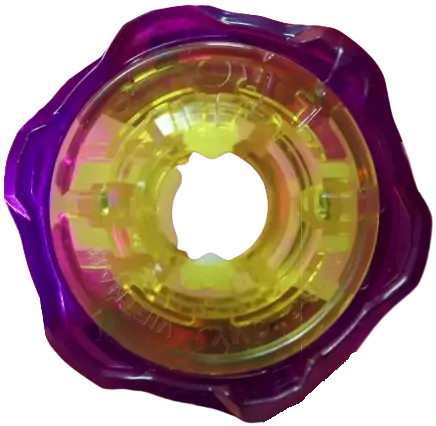
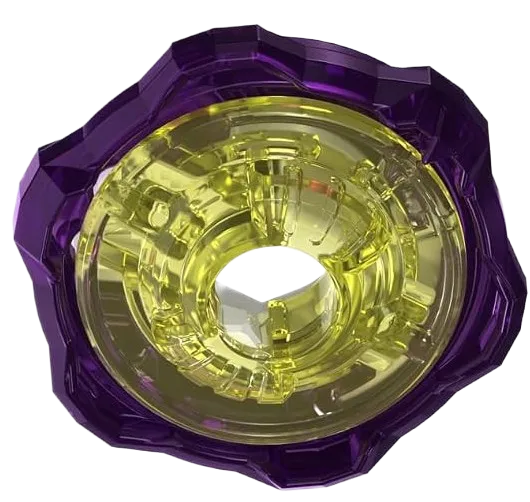
Added dual pack images for hasbro october releases, updated orochi parts, added missing product images for hasbro october releases

diff --git a/beyblade-data.ts b/beyblade-data.ts
@@ -11631,8 +11631,7 @@ export const allParts: Part[] = [
     "series": ["BX"],
     "company": "Hasbro",
     "comingSoon": true,
-    "inProgress": true,
-    "image": getPartImage("CobaltDrake_Clear-Booster_Image", "products/hasbro/cobalt_drake4-60f_clear_booster/product.webp", "product box", false), //NEED IMAGE
+    "image": getPartImage("CobaltDrake_Clear-Booster_Image", "products/hasbro/cobalt_drake4-60f_clear_booster/product.webp", "product box"),
     "contents": [
       { "partId": "Beyblade_CobaltDrake_Clear-Booster", "variantName": "Cobalt Drake 4-60F" }
     ]
@@ -11660,8 +11659,7 @@ export const allParts: Part[] = [
     "series": ["UX"],
     "company": "Hasbro",
     "comingSoon": true,
-    "inProgress": true,
-    "image": getPartImage("Mirage-Clock-Booster-Pack_Image", "products/hasbro/mirage_clock9-65b_booster/product.webp", "product box", false), //NEED IMAGE
+    "image": getPartImage("Mirage-Clock-Booster-Pack_Image", "products/hasbro/mirage_clock9-65b_booster/product.webp", "product box"),
     "contents": [
       { "partId": "Beyblade_Mirage-Clock-Booster-Pack", "variantName": "Mirage Clock 9-65B" }
     ]
@@ -11849,8 +11847,7 @@ export const allParts: Part[] = [
     "series": ["UX"],
     "company": "Hasbro",
     "comingSoon": true,
-    "inProgress": true,
-    "image": getPartImage("Product__Pearl-Tiger-Coil-Orochi-Dual-Pack_Image", "products/hasbro/pearltigercoilorochi/product.webp", "product box", false), //NEED IMAGE
+    "image": getPartImage("Product__Pearl-Tiger-Coil-Orochi-Dual-Pack_Image", "products/hasbro/pearltigercoilorochi/product.webp", "product box"),
     "contents": [
       { "partId": "Beyblade_Pearl-Tiger-3-85WB", "variantName": "Pearl Tiger 3-85WB" },
       { "partId": "Beyblade_Coil-Orochi-6-60LF", "variantName": "Coil Orochi 6-60LF" }
@@ -11879,7 +11876,6 @@ export const allParts: Part[] = [
     "series": ["BX"],
     "company": "Hasbro",
     "comingSoon": true,
-    "inProgress": true,
     "image": getPartImage("Beyblade_Pearl-Tiger-3-85WB_Image", "products/hasbro/pearltigercoilorochi/beyblade_pearltiger.webp", "beyblade"),
     "contents": [
       { "partId": "PearlTiger", "variantName": "Pearl Tiger 3-85WB (Dual Pack) (HB)" },
@@ -11895,8 +11891,7 @@ export const allParts: Part[] = [
     "series": ["BX"],
     "company": "Hasbro",
     "comingSoon": true,
-    "inProgress": true,
-    "image": getPartImage("Product__Brace-Triceratops-Dagger-Dran-Dual-Pack_Image", "products/hasbro/bracetriceratopsdaggerdran/product.webp", "product box", false), //NEED IMAGE
+    "image": getPartImage("Product__Brace-Triceratops-Dagger-Dran-Dual-Pack_Image", "products/hasbro/bracetriceratopsdaggerdran/product.webp", "product box"),
     "contents": [
       { "partId": "Beyblade_Brace-Triceratops-M-85BS", "variantName": "Brace Triceratops M-85BS" },
       { "partId": "Beyblade_Dagger-Dran-7-55K", "variantName": "Dagger Dran 7-55K" }
@@ -11925,7 +11920,6 @@ export const allParts: Part[] = [
     "series": ["BX"],
     "company": "Hasbro",
     "comingSoon": true,
-    "inProgress": true,
     "image": getPartImage("Beyblade_Dagger-Dran-7-55K_Image", "products/hasbro/bracetriceratopsdaggerdran/beyblade_daggerdran.webp", "beyblade"),
     "contents": [
       { "partId": "DaggerDran", "variantName": "Dagger Dran 7-55K (Dual Pack) (HB)" },
@@ -17512,7 +17506,7 @@ export const allParts: Part[] = [
         { "name": "Reaper Incendio T 4-70K (Starter) (HB)", "image": getPartImage("K-CX-05-1", "bits/k/reaperincendio.webp", "bit"), "identicalVariants": ["CX-05-1 (TT)"] },
         { "name": "Corocoro (DranArc) (TT)", "image": getPartImage("K-DranArc", "bits/k/dranarc.webp", "bit"), "displayedName": "CX-00 Corocoro Lottery/Full Color Manga Vol. 3 (DranArc S2-70K Metal Coat: Blue) (TT)" },
         { "name": "UX-00 (SamuraiSaber Metal Coat: Samurai Blue JFA Ver.) (TT)", "image": getPartImage("K-UX-00-SamuraiSaber-Metal-Coat-Samurai-Blue-JFA-Ver.", "bits/k/samuraisaber_jfa.webp", "bit"), "displayedName": "UX-00 (SamuraiSaber Metal Coat: Samurai Blue (JFA Ver.)) (TT)" },
-        { "name": "Dagger Dran 7-55K (Dual Pack) (HB)", "image": getPartImage("K-Dagger-Dran-7-55K", "bits/k/bracetriceratopsdaggerdran.webp", "bit", false), "comingSoon": true, "inProgress": true },
+        { "name": "Dagger Dran 7-55K (Dual Pack) (HB)", "image": getPartImage("K-Dagger-Dran-7-55K", "bits/k/bracetriceratopsdaggerdran.webp", "bit"), "comingSoon": true },
       ]
     },
     {
@@ -18083,7 +18077,7 @@ export const allParts: Part[] = [
         { "name": "CX-08-6 (TT)", "image": getPartImage("WB-CX-08-6", "bits/wb/cx-08-6.webp", "bit") },
         { "name": "Flame Cerberus W 5-80WB (Starter) (HB)", "image": getPartImage("WB-CX-08-1", "bits/wb/flamecerberus.webp", "bit") },
         { "name": "BX-50-6 (TT)", "image": getPartImage("WB-BX-50-6", "bits/wb/bx-50-6.webp", "bit") },
-        { "name": "Pearl Tiger 3-85WB (Dual Pack) (HB)", "image": getPartImage("WB-Pearl-Tiger-3-85WB", "bits/wb/pearltigercoilorochi.webp", "bit", false), "comingSoon": true, "inProgress": true },//NEED IMAGE      
+        { "name": "Pearl Tiger 3-85WB (Dual Pack) (HB)", "image": getPartImage("WB-Pearl-Tiger-3-85WB", "bits/wb/pearltigercoilorochi.webp", "bit"), "comingSoon": true },
       ]
     },
     {
@@ -18552,7 +18546,7 @@ export const allParts: Part[] = [
         { "name": "Gust Bat 3-85GP (Booster) (HB)", "image": getPartImage("3-85-gustbat", "ratchets/3-85/gustbat3-85gp.webp", "ratchet") },
         { "name": "Tail Viper 3-85LO (Dual Pack) (HB)", "image": getPartImage("3-85-tailviper3-85lo", "ratchets/3-85/tailviper3-85lo.webp", "ratchet") },
         { "name": "Hulk 3-85N (Dual Pack) (HB)", "image": getPartImage("3-85-spider-man-hulk-pack", "ratchets/3-85/hulk3-85n.webp", "ratchet") },
-        { "name": "Pearl Tiger 3-85WB (Dual Pack) (HB)", "image": getPartImage("3-85-Pearl-Tiger-3-85WB", "ratchets/3-85/pearltigercoilorochi.webp", "ratchet", false), "comingSoon": true, "inProgress": true },
+        { "name": "Pearl Tiger 3-85WB (Dual Pack) (HB)", "image": getPartImage("3-85-Pearl-Tiger-3-85WB", "ratchets/3-85/pearltigercoilorochi.webp", "ratchet"), "comingSoon": true },
       ]
     },
     {
@@ -18921,7 +18915,7 @@ export const allParts: Part[] = [
         { "name": "Hurricane Enlil IS 7-55T (Starter) (HB)", "image": getPartImage("7-55-Hurricane-Enlil", "ratchets/7-55/hurricaneenlil7-55t.webp", "ratchet") },
         { "name": "BX-50-3 (TT)", "image": getPartImage("7-55-BX-50-3", "ratchets/7-55/bx-50-3.webp", "ratchet") },
         { "name": "Glare Cyclops 7-55FB (Starter) (HB)", "image": getPartImage("7-55-glarecyclops", "ratchets/7-55/glarecyclops7-55fb.webp", "ratchet"), "comingSoon": true },
-        { "name": "Dagger Dran 7-55K (Dual Pack) (HB)", "image": getPartImage("7-55-Dagger Dran 7-55K", "ratchets/7-55/bracetriceratopsdaggerdran.webp", "ratchet", false), "comingSoon": true, "inProgress": true }, //NEED IMAGE
+        { "name": "Dagger Dran 7-55K (Dual Pack) (HB)", "image": getPartImage("7-55-Dagger Dran 7-55K", "ratchets/7-55/bracetriceratopsdaggerdran.webp", "ratchet"), "comingSoon": true },
       ]
 
     },
